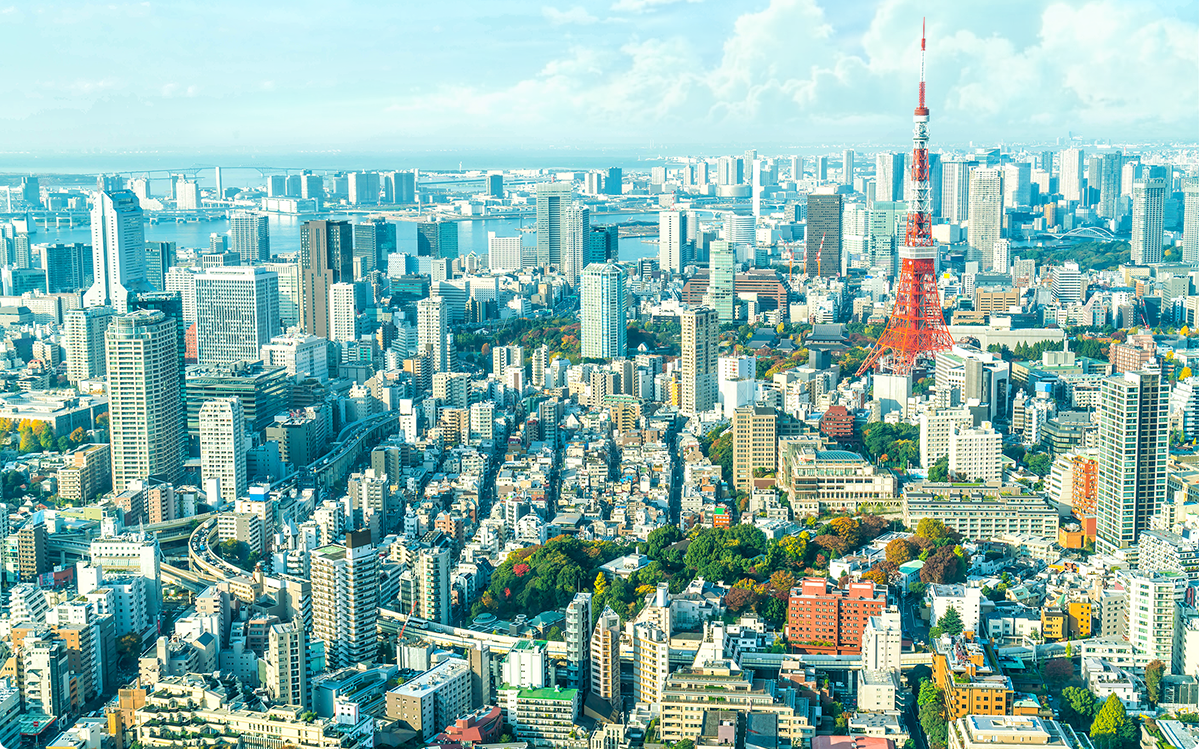
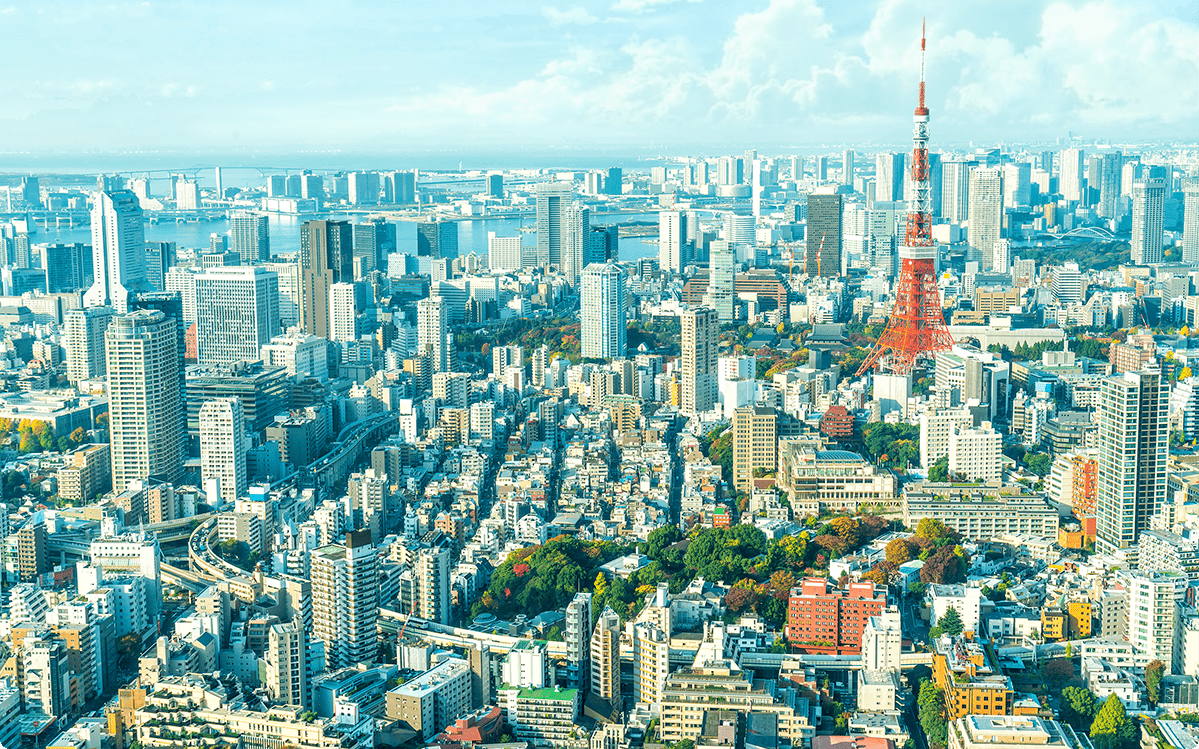
Правка изображения
Сжал файл изображения

diff --git a/index.html b/index.html
@@ -18,7 +18,7 @@
       <div class="map__pinsoverlay"><h2>И снова Токио!</h2></div>
 
       <button class="map__pin map__pin--main">
-        <img src="img/main-pin-image.png" width="40" height="44" draggable="false">
+        <img src="img/main-pin-image.png" width="40" height="44" draggable="false" alt="Укажите адрес">
         <svg viewBox="0 0 70 70">
           <defs>
             <path d="M35,35m-23,0a23,23 0 1,1 46,0a23,23 0 1,1 -46,0" id="tophalf" />
@@ -209,7 +209,7 @@
 <footer class="footer container">
   <div class="center-wrapper">
     <section class="footer-logo">
-      Сделано в <a tabindex="1" href="https://htmlacademy.ru" class="footer-logo-link"><img src="img/ha-logo.png" class="footer-logo-image" width="130" alt="HTML Academy"/>HTML Academy</a> &copy; 2017
+        <h6>Сделано в </h6><a tabindex="1" href="https://htmlacademy.ru" class="footer-logo-link"><img src="img/ha-logo.png" class="footer-logo-image" width="130" alt="HTML Academy"/>HTML Academy</a> &copy; 2017
     </section>
     <nav class="footer-social">
       <a href="https://twitter.com/htmlacademy_ru" class="footer-social-item footer-social-item-twitter" target="_blank" rel="nofollow">Twitter</a>
